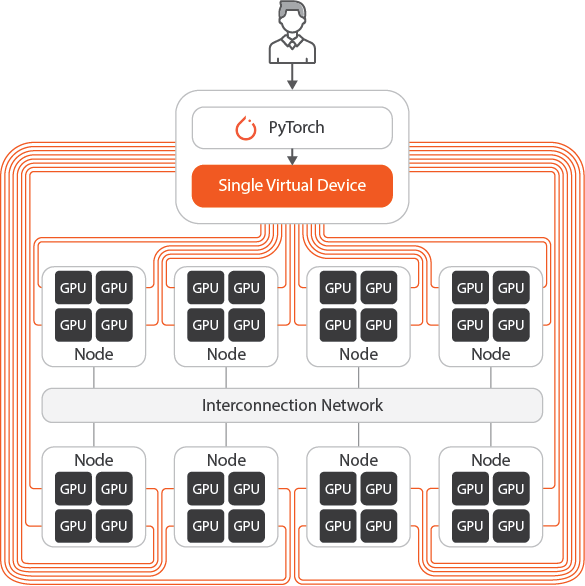
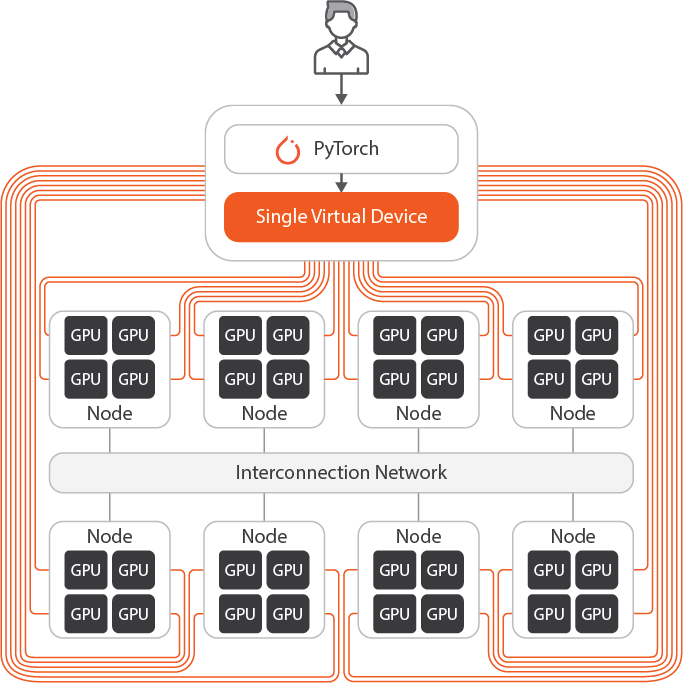
eng ver

diff --git a/About MoAI.md b/About MoAI.md
@@ -8,8 +8,7 @@ order: 600
 
 ## What is MoAI Platform?
 
-MoAI(Moreh AI appliance for AI accelerators) Platform is a scalable AI platform that enables easy control of thousands of Graphics Processing Units(GPUs) essential for developing large-scale deep learning models.
-
+The MoAI Platform is a scalable AI platform designed for developing large-scale deep learning models. It allows easy control of thousands of different GPUs to facilitate AI model training and inference. 
 
 ## Core Technologies of MoAI Platform
 
@@ -17,7 +16,7 @@ MoAI(Moreh AI appliance for AI accelerators) Platform is a scalable AI platform 
 
 As deep learning models evolve, they become increasingly complex and require substantial computational resources, with parameters expanding from billions to trillions. Developing large-scale models involves managing and processing an immense number of parameters, which is very challenging and time-consuming.
 
-The MoAI Platform's automatic parallelization addresses these challenges by simultaneously processing multiple tasks, determining the optimal calculation method for large models. This allows users to focus solely on their core AI challenges, regardless of their application scale or processor type. Furthermore, it efficiently utilizes GPU computational resources at a reasonable cost by allocating them only during calculation execution.
+Additionally, issues such as GPU node failures, memory limitations, and bottlenecks frequently arise during the training and inference of large-scale models, making the resolution of these problems particularly challenging. The MoAI Platform addresses these limitations and challenges with its GPU virtualization and automatic parallelization features, providing an efficient infrastructure for the era of large-scale AI.
 
 
 1. **[Various Accelerators, Multi-GPU Support](http://localhost:5000/two-lang-demo/about-moai/#1various-accelerators-multi-gpu-support)**
@@ -31,7 +30,7 @@ The MoAI Platform's automatic parallelization addresses these challenges by simu
 
 ## **1.Various Accelerators, Multi-GPU Support**
 
--![](./img/overview_02.png)
+-![](./img/overview_22.png)
 
 
 \
@@ -47,23 +46,14 @@ The MoAI Platform's automatic parallelization addresses these challenges by simu
 - Users can utilize different accelerators like Intel, AMD, and others alongside NVIDIA without needing to modify their code for deep learning development and model training.
 - This compatibility allows for flexible development and training of deep learning models, accommodating multiple and diverse types of GPUs.\
 \
-\
-\
-\
-\
-\
-\
 &nbsp;
-&nbsp;
-
 ------
-
-
-
 
 ## **2. GPU/NPU Virtualization**
 
--![](./img/overview_03.png)
+-![](./img/overview_93.png)
+\
+&nbsp;
 
 
 \
@@ -74,11 +64,8 @@ The MoAI Platform's automatic parallelization addresses these challenges by simu
 \
 &nbsp;
 &nbsp;
-
-- The MoAI Platform's virtualization feature enables thousands of GPUs or NPUs to function as a single, more powerful GPU device.
-    - This unique approach suggests that instead of managing a lot of individual units, users can handle this collective resource as single entity, considerably simplifying complex tasks.
-- It simplifies the process of modeling and optimization, providing users with a seamless and efficient experience.
-    - By abstracting the complexity of utilizing multiple GPUs or NPUs, it enables easier management and deployment of resources for enhanced performance in deep learning tasks.
+\
+\
 \
 \
 \
@@ -88,30 +75,52 @@ The MoAI Platform's automatic parallelization addresses these challenges by simu
 &nbsp;
 &nbsp;
 
+
+The MoAI Platform’s virtualization feature enables the use of thousands of GPUs as if they were a single GPU. This simplifies the modeling and optimization processes, providing AI engineers with a smooth and efficient experience.
+
+- **Flexible Scalability**: You can scale GPU resources up or down as needed, enhancing the scalability of your services.
+- **Simplified Management and Deployment**: By abstracting the complexity of using multiple GPUs, the platform makes it easier to manage and deploy resources to improve performance in deep learning tasks.
+- **Cost Savings**: GPU infrastructure managers can reduce hardware costs by efficiently utilizing virtualized GPUs.
+
+The MoAI Platform is designed with a fully usage-based billing model, where charges are applied per minute of GPU usage only during actual computations. This approach allows for significant cost savings compared to traditional cloud services, which often tie GPUs to specific virtual machines (VMs) using a passthrough method.
+
+- **Comparison Examples**:
+    - **Google Cloud**: Google Cloud charges on a per-second basis for each machine. However, resources are fixed, making it difficult to change virtual machines once selected.
+    - **Azure**: Azure charges for computing capacity on a per-second basis and allows for adjustments in consumption as needed, but does not offer flexible instance changes based on training requirements.
+    - **MoAI Platform**: The MoAI Platform offers precise billing based on AI accelerator size and GPU computation time, providing more efficient cost management.
+\
+&nbsp;
 
 ------
 
-## **3. AI Compiler**
+## 3. Dynamic GPU Allocation
 
 
 ![](./img/overview_04.png)
 
-- In the era of AI, training and inference of large-scale models such as LLM(Large language Model) and LMM(Large Multimodal Model) require significantly large GPU clusters and effective GPU parallelization.
-- Currently, most AI frameworks used with NVIDIA require manual parallelization by AI engineers depending on the size and complexity of the model and the available GPU size/cluster. This setup process is time-consuming, often taking weeks to complete.
-- The MoAI Platform offers automatic parallelization can be achieved through a Moreh AI compiler that finds out the optical way to use GPU resources based on the the specific AI model and the size of GPU cluster.
-- This can significantly shorten the setup and deployment time for AI models, from several weeks, as with NVIDIA, to only 2-3 days.
+On the MoAI Platform, AI engineers can start deep learning training and inference with only the necessary amount of GPU resources.
 
+- **Efficient GPU Resource Utilization**: GPU resources are allocated only during computation, ensuring efficient use. This approach helps reduce software and infrastructure development costs and shortens development and deployment times.
+- **Easy Cluster Setup**: With the MoAI Platform's dynamic allocation feature, AI engineers can easily set up GPU clusters. Typically, deep learning developers need to configure their development environment by connecting PyTorch or TensorFlow to the back nodes of GPU cluster devices, ensuring that each process can communicate with others.
 
-## **4. Dynamic GPU Allocation**
-
+## 4. AI Compiler Automatic Parallelization
 
 
 ![](./img/overview_05.png)
 
+!!!info What is Automatic Parallelization?
+Deep learning models consist of multiple layers, each containing numerous computations. These layers can be trained independently, allowing for parallel processing. GPU automatic parallelization is a technology that automates the parallelization of training and inference in deep learning models.
+!!!
 
-- On the MoAI platform, AI engineers can begin deep learning training with exactly the amount of GPU resources as needed.
-- GPU resources are only allocated during computation execution, allowing for efficient use of GPU resources. This not only reduces software development cost, but also saves time for development and deployment.
 
+The MoAI Platform's Advanced Parallelization technology optimally distributes and parallelizes these computations, maximizing hardware resource utilization.
+
+In the era of artificial intelligence, large-scale models like Large Language Models (LLMs) and Large Multimodal Models (LMMs) require substantial GPU clusters and effective GPU parallelization for training and inference.
+
+Currently, common AI frameworks used with NVIDIA require AI engineers to manually adjust parallelization based on the model's size, complexity, and the available GPU size or cluster. This process is time-consuming, often taking several weeks.
+
+- The MoAI Platform provides Advanced Parallelization through the Moreh AI compiler, which optimally utilizes GPU resources based on the specific AI model and GPU cluster size.
+- With MoAI Platform’s Advanced Parallelization, the setup and deployment time for AI models, which typically takes weeks, can be reduced to just 2-3 days.
 
 
 Copyright © 2024 Moreh Corporation
